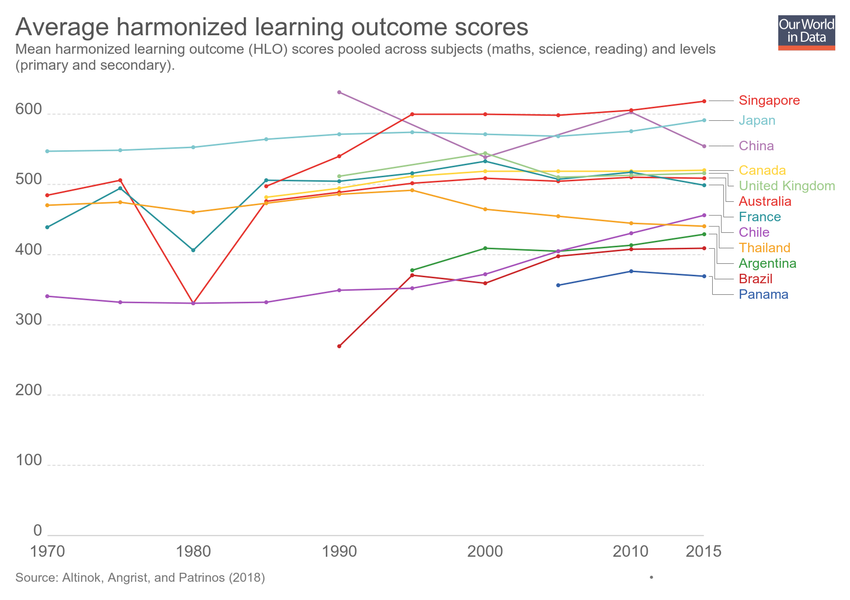
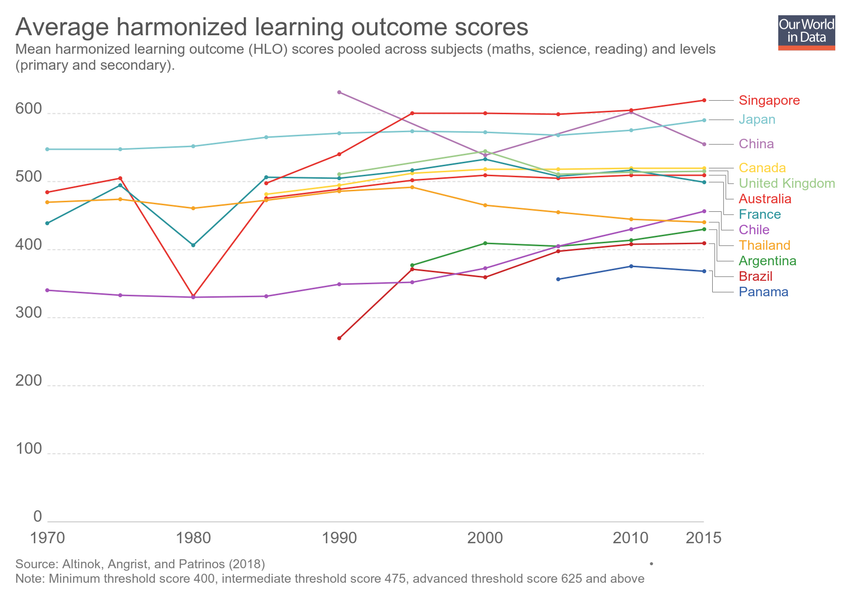
Updating chart average-harmonized-learning-outcome-scores

diff --git a/grapher/average-harmonized-learning-outcome-scores.html b/grapher/average-harmonized-learning-outcome-scores.html
@@ -1,4 +1,4 @@
-<!doctype html><html><head><meta name="viewport" content="width=device-width, initial-scale=1" /><title>Average harmonized learning outcome scores - Our World in Data</title><meta name="description" content="Mean harmonized learning outcome (HLO) scores pooled across subjects (maths, science, reading) and levels (primary and secondary)." /><link rel="canonical" href="https://ourworldindata.org/grapher/average-harmonized-learning-outcome-scores" /><meta property="fb:app_id" content="1149943818390250" /><meta property="og:url" content="https://ourworldindata.org/grapher/average-harmonized-learning-outcome-scores" /><meta property="og:title" content="Average harmonized learning outcome scores" /><meta property="og:description" content="Mean harmonized learning outcome (HLO) scores pooled across subjects (maths, science, reading) and levels (primary and secondary)." /><meta property="og:image" content="https://ourworldindata.org/grapher/exports/average-harmonized-learning-outcome-scores.png?v=8" /><meta property="og:image:width" content="850" /><meta property="og:image:height" content="600" /><meta property="og:site_name" content="Our World in Data" /><meta name="twitter:card" content="summary_large_image" /><meta name="twitter:site" content="@OurWorldInData" /><meta name="twitter:creator" content="@OurWorldInData" /><meta name="twitter:title" content="Average harmonized learning outcome scores" /><meta name="twitter:description" content="Mean harmonized learning outcome (HLO) scores pooled across subjects (maths, science, reading) and levels (primary and secondary)." /><meta name="twitter:image" content="https://ourworldindata.org/grapher/exports/average-harmonized-learning-outcome-scores.png?v=8" /><style>
+<!doctype html><html><head><meta name="viewport" content="width=device-width, initial-scale=1" /><title>Average harmonized learning outcome scores - Our World in Data</title><meta name="description" content="Mean harmonized learning outcome (HLO) scores pooled across subjects (maths, science, reading) and levels (primary and secondary)." /><link rel="canonical" href="https://ourworldindata.org/grapher/average-harmonized-learning-outcome-scores" /><meta property="fb:app_id" content="1149943818390250" /><meta property="og:url" content="https://ourworldindata.org/grapher/average-harmonized-learning-outcome-scores" /><meta property="og:title" content="Average harmonized learning outcome scores" /><meta property="og:description" content="Mean harmonized learning outcome (HLO) scores pooled across subjects (maths, science, reading) and levels (primary and secondary)." /><meta property="og:image" content="https://ourworldindata.org/grapher/exports/average-harmonized-learning-outcome-scores.png?v=10" /><meta property="og:image:width" content="850" /><meta property="og:image:height" content="600" /><meta property="og:site_name" content="Our World in Data" /><meta name="twitter:card" content="summary_large_image" /><meta name="twitter:site" content="@OurWorldInData" /><meta name="twitter:creator" content="@OurWorldInData" /><meta name="twitter:title" content="Average harmonized learning outcome scores" /><meta name="twitter:description" content="Mean harmonized learning outcome (HLO) scores pooled across subjects (maths, science, reading) and levels (primary and secondary)." /><meta name="twitter:image" content="https://ourworldindata.org/grapher/exports/average-harmonized-learning-outcome-scores.png?v=10" /><style>
         html, body {
             height: 100%;
             margin: 0;
@@ -20,8 +20,8 @@
         }
     </style><noscript><style>
                     figure { display: none !important; }
-                </style></noscript><link rel="stylesheet" href="https://ourworldindata.org/grapher/assets/commons.bundle.7bc7a3a90f15cac09df5.css" /><link rel="preload" href="/grapher/data/variables/97675.json?v=8" as="fetch" crossorigin /></head><body class="singleChart"><figure data-grapher-src="/grapher/average-harmonized-learning-outcome-scores"></figure><noscript id="fallback"><img src="/grapher/exports/average-harmonized-learning-outcome-scores.svg" /><p>Interactive visualization requires JavaScript</p></noscript><script src="https://cdn.polyfill.io/v2/polyfill.min.js?features=es6,fetch"></script><script src="https://ourworldindata.org/grapher/assets/commons.bundle.7bc7a3a90f15cac09df5.js"></script><script src="https://ourworldindata.org/grapher/assets/charts.bundle.7bc7a3a90f15cac09df5.js"></script><script>
-        var jsonConfig = {"id":2879,"map":{"projection":"World","targetYear":2015,"variableId":97675,"equalSizeBins":true,"isManualBuckets":true,"colorSchemeLabels":["Minimum","Intermediate","Advanced"],"colorSchemeValues":[400,475,625],"customNumericColors":[],"customCategoryColors":{},"customCategoryLabels":{},"customHiddenCategories":{}},"tab":"chart","slug":"average-harmonized-learning-outcome-scores","type":"LineChart","title":"Average harmonized learning outcome scores","xAxis":{"scaleType":"linear"},"yAxis":{"min":0,"scaleType":"linear"},"version":8,"subtitle":"Mean harmonized learning outcome (HLO) scores pooled across subjects (maths, science, reading) and levels (primary and secondary).","hasMapTab":true,"stackMode":"absolute","dimensions":[{"display":{},"property":"y","variableId":97675}],"hasChartTab":true,"isPublished":true,"selectedData":[{"index":0,"entityId":100},{"index":0,"entityId":23},{"index":0,"entityId":21},{"index":0,"entityId":37},{"index":0,"entityId":44},{"index":0,"entityId":172},{"index":0,"entityId":171},{"index":0,"entityId":3},{"index":0,"entityId":14},{"index":0,"entityId":75},{"index":0,"entityId":1},{"index":0,"entityId":86}],"addCountryMode":"add-country"};
+                </style></noscript><link rel="stylesheet" href="https://ourworldindata.org/grapher/assets/commons.bundle.7bc7a3a90f15cac09df5.css" /><link rel="preload" href="/grapher/data/variables/97675.json?v=10" as="fetch" crossorigin /></head><body class="singleChart"><figure data-grapher-src="/grapher/average-harmonized-learning-outcome-scores"></figure><noscript id="fallback"><img src="/grapher/exports/average-harmonized-learning-outcome-scores.svg" /><p>Interactive visualization requires JavaScript</p></noscript><script src="https://cdn.polyfill.io/v2/polyfill.min.js?features=es6,fetch"></script><script src="https://ourworldindata.org/grapher/assets/commons.bundle.7bc7a3a90f15cac09df5.js"></script><script src="https://ourworldindata.org/grapher/assets/charts.bundle.7bc7a3a90f15cac09df5.js"></script><script>
+        var jsonConfig = {"id":2879,"map":{"projection":"World","targetYear":2015,"variableId":97675,"equalSizeBins":true,"isManualBuckets":true,"colorSchemeLabels":["Minimum","Intermediate","Advanced"],"colorSchemeValues":[400,475,625],"customNumericColors":[],"customCategoryColors":{},"customCategoryLabels":{},"customHiddenCategories":{}},"tab":"chart","note":"Minimum threshold score 400, intermediate threshold score 475, advanced threshold score 625 and above","slug":"average-harmonized-learning-outcome-scores","type":"LineChart","title":"Average harmonized learning outcome scores","xAxis":{"scaleType":"linear"},"yAxis":{"min":0,"scaleType":"linear"},"version":10,"subtitle":"Mean harmonized learning outcome (HLO) scores pooled across subjects (maths, science, reading) and levels (primary and secondary).","hasMapTab":true,"stackMode":"absolute","dimensions":[{"display":{},"property":"y","variableId":97675}],"hasChartTab":true,"isPublished":true,"selectedData":[{"index":0,"entityId":100},{"index":0,"entityId":23},{"index":0,"entityId":21},{"index":0,"entityId":37},{"index":0,"entityId":44},{"index":0,"entityId":172},{"index":0,"entityId":171},{"index":0,"entityId":3},{"index":0,"entityId":14},{"index":0,"entityId":75},{"index":0,"entityId":1},{"index":0,"entityId":86}],"addCountryMode":"add-country"};
         var figure = document.getElementsByTagName("figure")[0];
         try {
             window.App = {};
